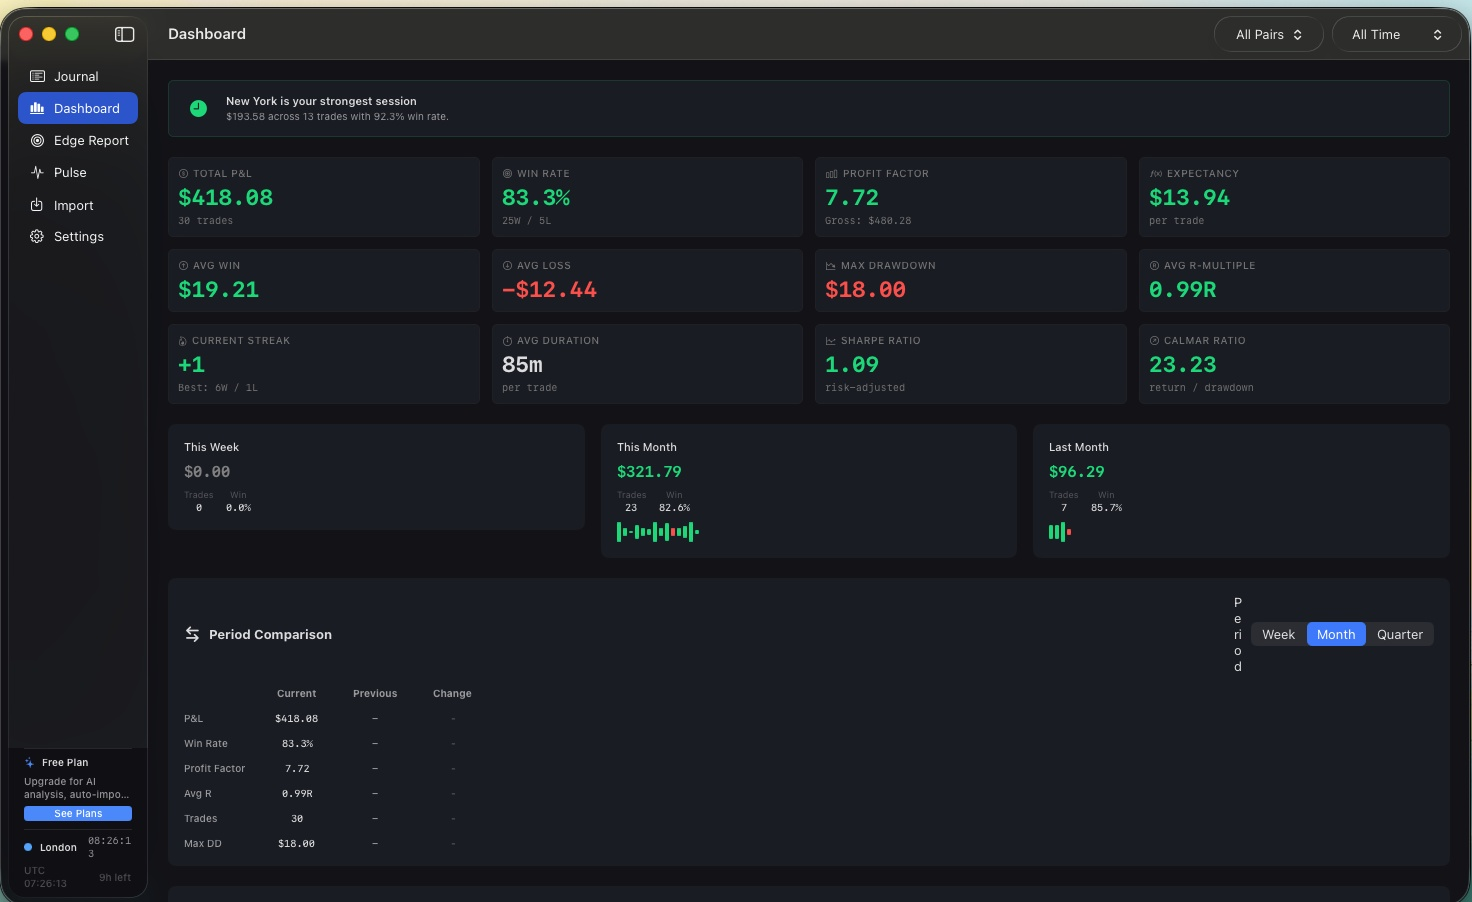
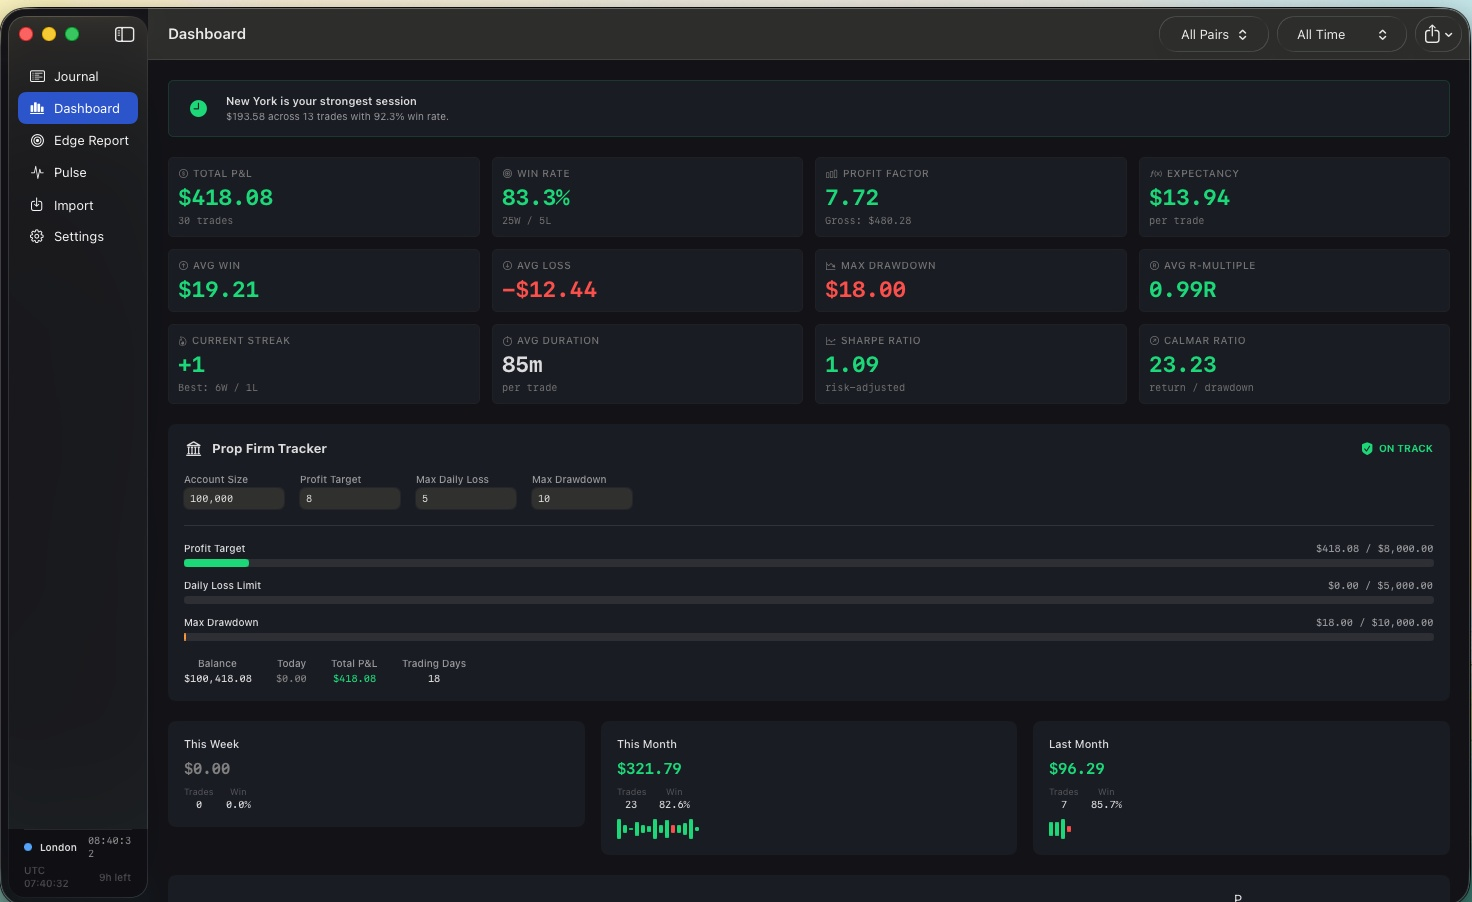
Redesign features section: Pro+ screenshots, no borders, alternating layout
- Removed border/outline from all screenshot containers
- Recaptured all screenshots with Pro+ tier (no upgrade banners)
- Hero: full dashboard window with all 12 metric cards
- Features: 4 cropped feature-specific images (journal table, metric
  cards + prop firm tracker, edge rankings, pulse session intelligence)
- Alternating text+image layout for features section
- Removed duplicate full-window screenshots from features

diff --git a/index.html b/index.html
@@ -109,7 +109,6 @@
             margin-top: 60px;
             border-radius: 12px;
             overflow: hidden;
-            border: 1px solid var(--border);
             box-shadow: 0 20px 80px rgba(0,0,0,0.5), 0 0 60px rgba(74,158,255,0.08);
         }
         .hero-image img {
@@ -118,26 +117,46 @@
             display: block;
         }
 
-        /* Feature screenshots */
-        .feature-screenshot {
-            margin-top: 48px;
-            margin-bottom: 48px;
-            border-radius: 12px;
+        /* Feature showcase: alternating text + image rows */
+        .feature-showcase {
+            display: flex;
+            align-items: center;
+            gap: 48px;
+            margin: 64px 0;
+        }
+        .feature-showcase:nth-child(even) {
+            flex-direction: row-reverse;
+        }
+        .feature-showcase-text {
+            flex: 1;
+            min-width: 280px;
+        }
+        .feature-showcase-text h3 {
+            font-size: 24px;
+            font-weight: 700;
+            margin-bottom: 12px;
+            letter-spacing: -0.5px;
+        }
+        .feature-showcase-text p {
+            font-size: 16px;
+            color: var(--muted);
+            line-height: 1.6;
+        }
+        .feature-showcase-image {
+            flex: 1.5;
+            border-radius: 10px;
             overflow: hidden;
-            border: 1px solid var(--border);
             box-shadow: 0 8px 40px rgba(0,0,0,0.4);
         }
-        .feature-screenshot img {
+        .feature-showcase-image img {
             width: 100%;
             height: auto;
             display: block;
         }
-        .feature-screenshot-label {
-            font-size: 14px;
-            color: var(--muted);
-            text-align: center;
-            margin-top: 12px;
-            margin-bottom: 32px;
+        @media (max-width: 768px) {
+            .feature-showcase, .feature-showcase:nth-child(even) {
+                flex-direction: column;
+            }
         }
 
         /* Nav icon */
@@ -395,20 +414,45 @@
                 </div>
             </div>
 
-            <div class="feature-screenshot">
-                <img src="/images/screenshot-journal.jpg" alt="Dojix Trade Journal — every trade with P&L, grade, session, R-multiple, and cumulative P&L" width="1472" height="902" loading="lazy">
+            <div class="feature-showcase">
+                <div class="feature-showcase-text">
+                    <h3>Every trade, graded A-F</h3>
+                    <p>Full trade journal with P&L, cumulative equity, R-multiples, session tags, and automatic grade scoring. Filter by pair, session, direction, or date range. Export to PDF or CSV.</p>
+                </div>
+                <div class="feature-showcase-image">
+                    <img src="/images/feature-journal.jpg" alt="Dojix trade journal table with grades, P&L, filters" loading="lazy">
+                </div>
             </div>
-            <p class="feature-screenshot-label">Trade Journal — every trade graded A-F with full metrics, filters, and search</p>
 
-            <div class="feature-screenshot">
-                <img src="/images/screenshot-edge.jpg" alt="Dojix Edge Report — top money makers and losers by session, hour, pair, and day" width="1472" height="902" loading="lazy">
+            <div class="feature-showcase">
+                <div class="feature-showcase-text">
+                    <h3>12 metrics at a glance</h3>
+                    <p>Win rate, profit factor, expectancy, Sharpe ratio, Calmar ratio, drawdown, R-multiple, streaks, duration — all computed in real time. Plus a prop firm tracker for challenge accounts.</p>
+                </div>
+                <div class="feature-showcase-image">
+                    <img src="/images/feature-metrics.jpg" alt="Dojix dashboard metric cards and prop firm tracker" loading="lazy">
+                </div>
             </div>
-            <p class="feature-screenshot-label">Edge Report — where you make money and where you lose it, ranked by dollar impact</p>
 
-            <div class="feature-screenshot">
-                <img src="/images/screenshot-pulse.jpg" alt="Dojix Pulse — live session clock, forex quotes, economic calendar, and edge signals" width="1472" height="902" loading="lazy">
+            <div class="feature-showcase">
+                <div class="feature-showcase-text">
+                    <h3>Find where you make money</h3>
+                    <p>Edge Report ranks your top money-makers and money-losers by session, hour, day, and pair. Dollar amounts on everything. AI analysis gives you 3-5 ranked recommendations.</p>
+                </div>
+                <div class="feature-showcase-image">
+                    <img src="/images/feature-edge.jpg" alt="Dojix edge report with session and hour rankings" loading="lazy">
+                </div>
             </div>
-            <p class="feature-screenshot-label">Pulse — live session intelligence, economic calendar, and personalized edge signals</p>
+
+            <div class="feature-showcase">
+                <div class="feature-showcase-text">
+                    <h3>Live session intelligence</h3>
+                    <p>Real-time session clock, economic calendar with high-impact event alerts, and a personalized edge signal telling you whether conditions match your best setups.</p>
+                </div>
+                <div class="feature-showcase-image">
+                    <img src="/images/feature-pulse.jpg" alt="Dojix pulse with session clock and economic calendar" loading="lazy">
+                </div>
+            </div>
         </section>
 
         <section class="section" id="pricing">
